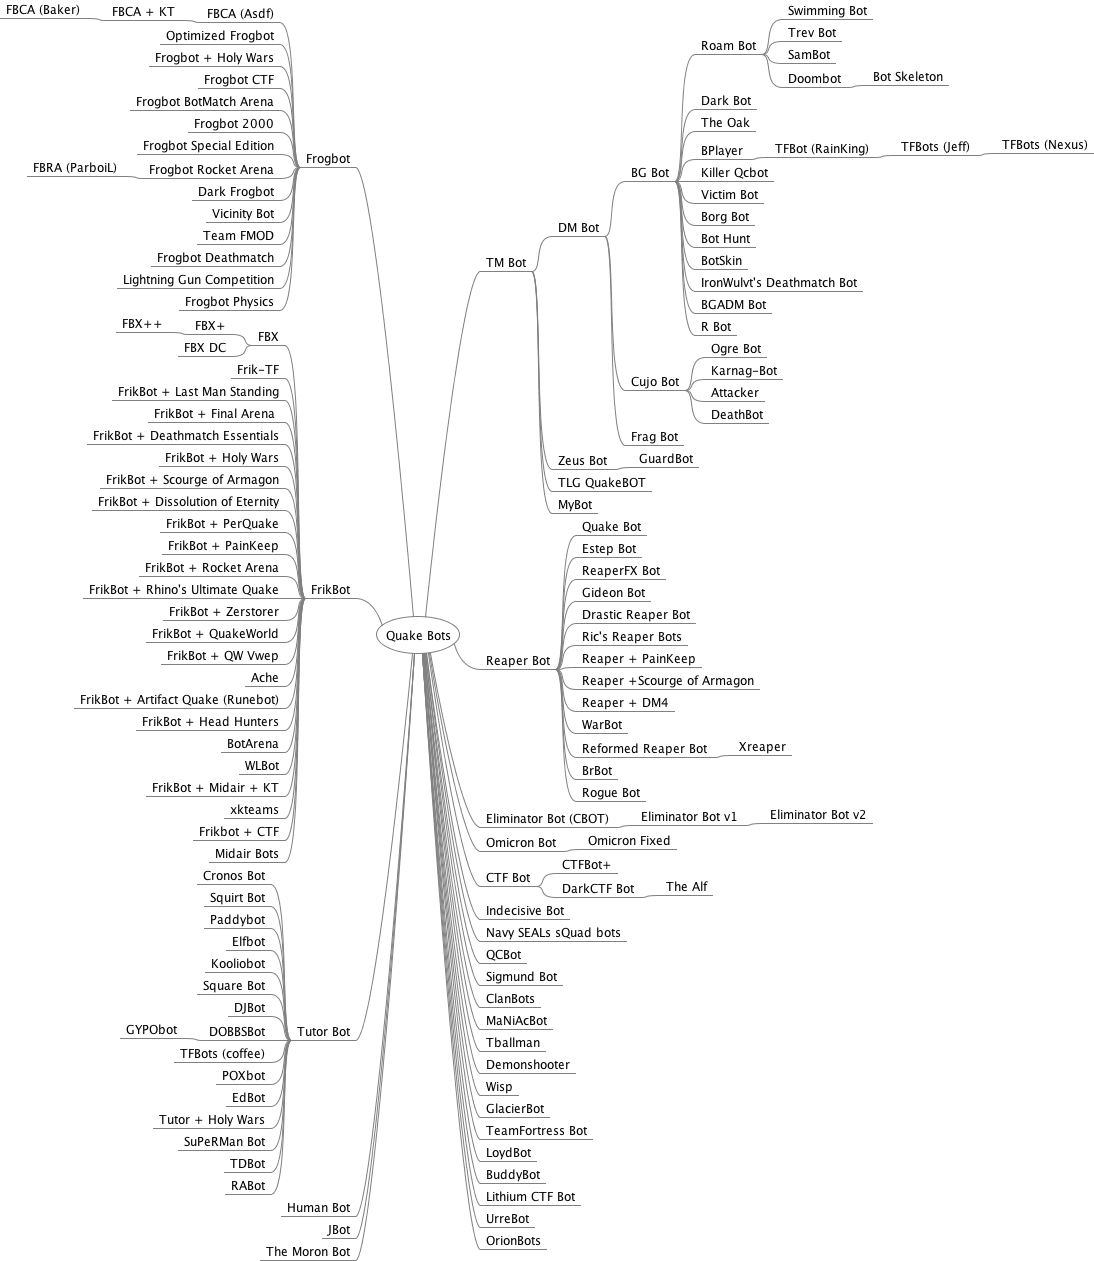
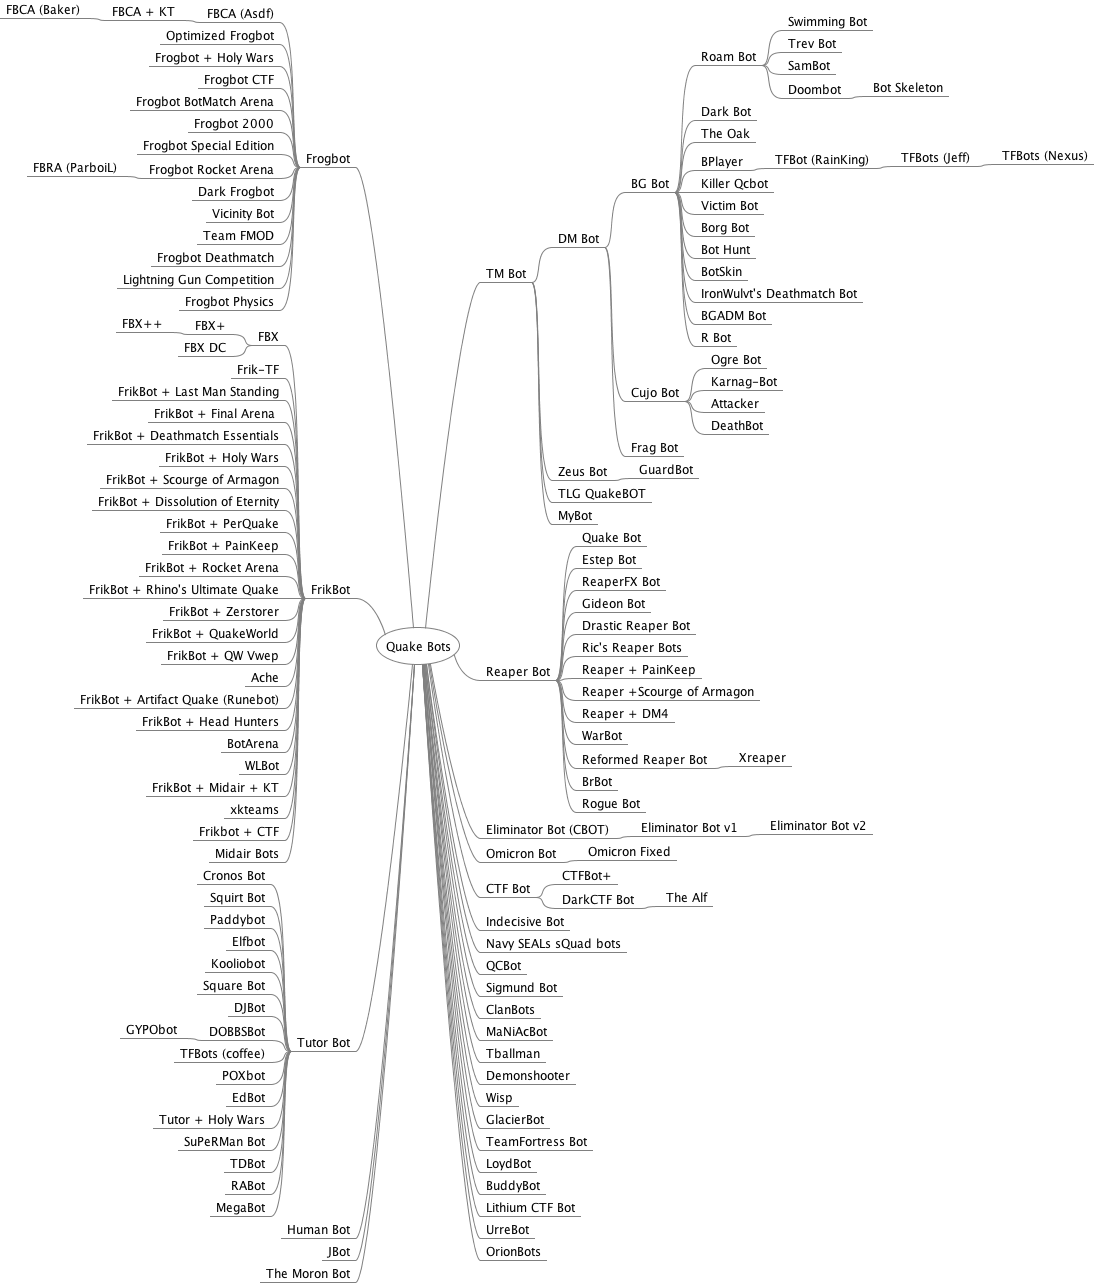
added MegaBot

diff --git a/mindmap/QuakeBots.mm b/mindmap/QuakeBots.mm
@@ -146,6 +146,7 @@
 <node CREATED="1623985508026" ID="ID_247704763" MODIFIED="1623985508876" TEXT="SuPeRMan Bot"/>
 <node CREATED="1624406124628" ID="ID_589837369" MODIFIED="1624406125606" TEXT="TDBot"/>
 <node CREATED="1624577916523" ID="ID_612633407" MODIFIED="1624577918018" TEXT="RABot"/>
+<node CREATED="1625029784389" ID="ID_1465073678" MODIFIED="1625029785101" TEXT="MegaBot"/>
 </node>
 <node CREATED="1622675037053" ID="ID_1770647602" MODIFIED="1622675039068" POSITION="right" TEXT="Indecisive Bot"/>
 <node CREATED="1622682184306" ID="ID_1458910225" MODIFIED="1622682185577" POSITION="right" TEXT="Navy SEALs sQuad bots"/>

diff --git a/README.md b/README.md
@@ -100,6 +100,7 @@ Lightning Gun Competition (LGC) | Phil aka "peheyele" | [lgc3.zip](bin/lgc3.zip)
 Lithium CTF Bot | Juan Ignacio Rava aka "Johnny" | [lith091c.zip](bin/lith091c.zip)
 LoydBot | Loyd aka "Juninho" | [lbotv10.zip](bin/lbotv10.zip)
 MaNiAcBot | Michael Turitzin aka "MaNiAc" | [maniacbt.zip](bin/maniacbt.zip)<br>maniacbt12.zip<br>FBMOD.ZIP
+MegaBot | "Vic" | [megabot.zip](bin/megabot.zip)
 Midair Bots | Benjamin Darling aka "Electro" and "Vomit" | [midair_qwbot.rar](bin/midair_qwbot.rar)<br>[midairbots_all.zip](bin/midairbots_all.zip)<br>[midairbots.zip](bin/midairbots.zip)
 MyBot | Stephen Vanterpool | [mybot16.zip](bin/mybot16.zip)<br>[mybot13a.zip](bin/mybot13a.zip)<br>[mybot.zip](bin/mybot.zip)
 Navy SEALs sQuad bots | William van der Sterren | [nseal201.zip](bin/nseal201.zip)<br>sqdbt201.zip
